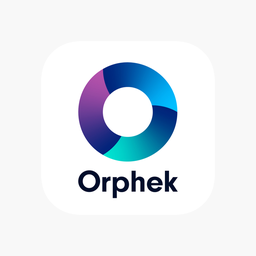
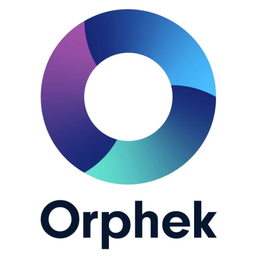
Unblock merge to main by restoring integration fixture behavior and removing brand asset conflicts (#7)
* fix: autouse custom integration fixture for integration tests

Agent-Logs-Url: https://github.com/rbickel/orphek-homeassistant/sessions/a034e8c4-5c82-48ee-8654-bdcf37495cfa

* fix: align brand images with main to prevent merge conflicts

Agent-Logs-Url: https://github.com/rbickel/orphek-homeassistant/sessions/a034e8c4-5c82-48ee-8654-bdcf37495cfa

---------

diff --git a/tests/conftest.py b/tests/conftest.py
@@ -121,7 +121,7 @@ def device_info():
 # ---------------------------------------------------------------------------
 
 
-@pytest.fixture
+@pytest.fixture(autouse=True)
 def auto_enable_custom_integrations(enable_custom_integrations):
     """Enable custom integrations in integration tests.
 
